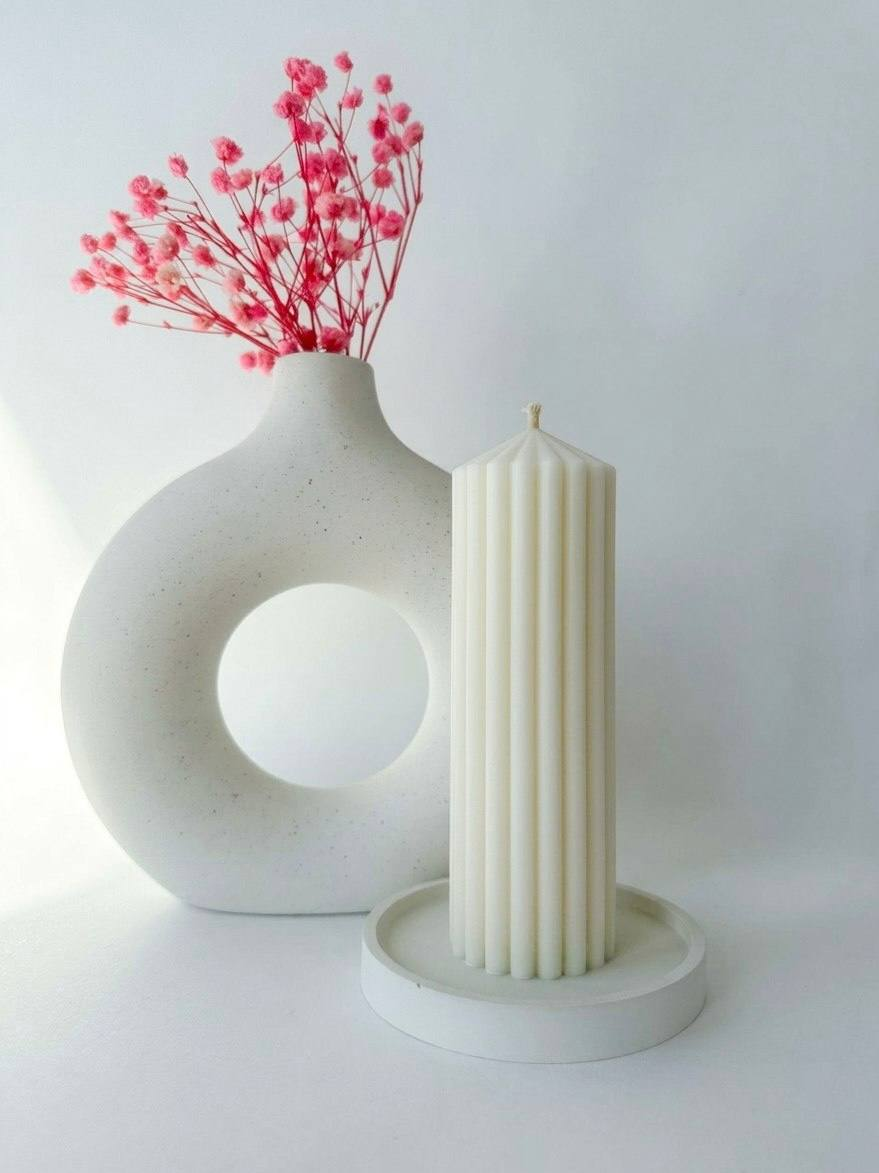
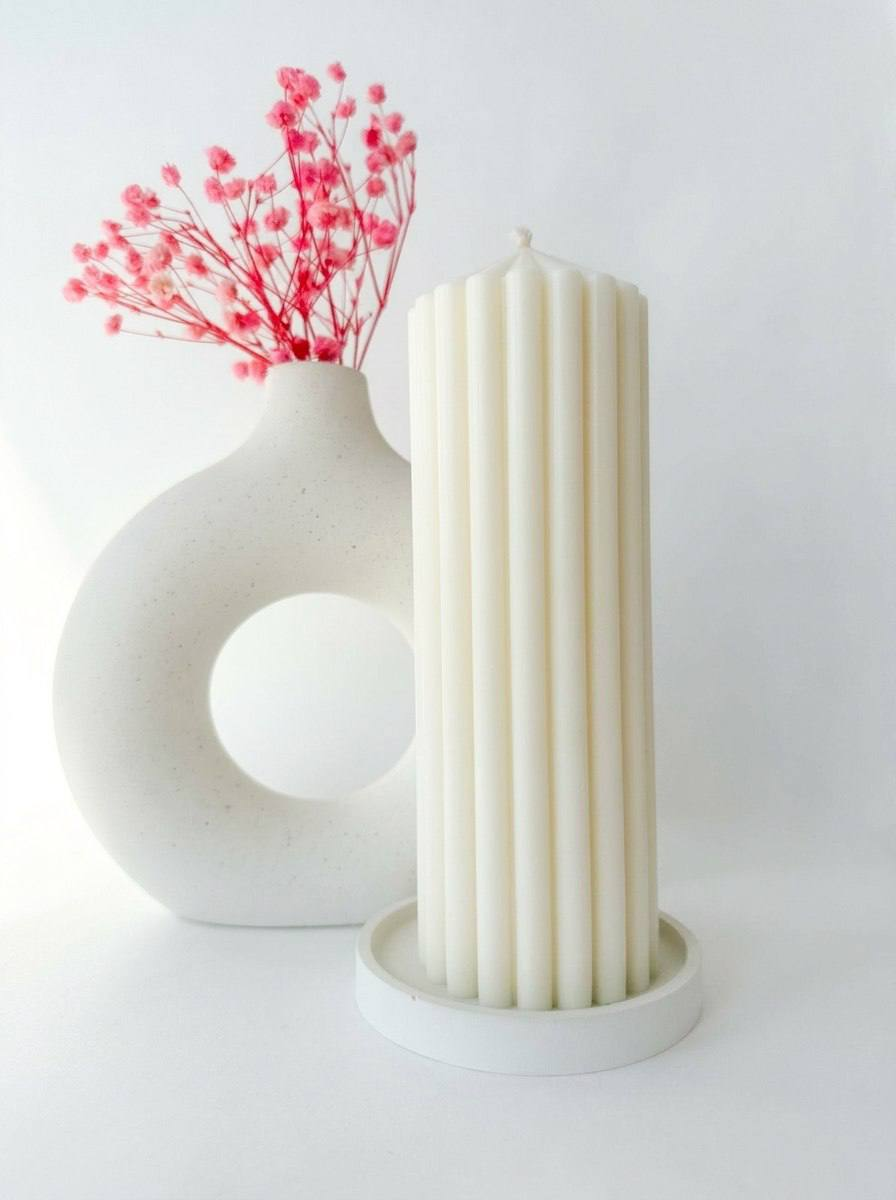
Fix static image src: grani-svecheniya-l/m/s (was pion-v-stakane.png)

diff --git a/products/grani-svecheniya-l/index.html b/products/grani-svecheniya-l/index.html
@@ -48,7 +48,7 @@
         <div class="product-media product-panel">
           <div class="product-gallery" data-product-gallery>
             <div class="product-gallery-main">
-              <img class="product-page-image" data-product-image src="../../assets/img/products/pion-v-stakane.png" alt="Свеча Пион в стакане" onerror="this.onerror=null;this.src='../../assets/img/image-placeholder.svg';">
+              <img class="product-page-image" data-product-image src="../../assets/img/products/grani-svecheniya-l.jpg" alt="Свеча Пион в стакане" onerror="this.onerror=null;this.src='../../assets/img/image-placeholder.svg';">
             </div>
             <div class="product-gallery-thumbs" data-product-gallery-thumbs hidden></div>
           </div>

diff --git a/products/grani-svecheniya-m/index.html b/products/grani-svecheniya-m/index.html
@@ -48,7 +48,7 @@
         <div class="product-media product-panel">
           <div class="product-gallery" data-product-gallery>
             <div class="product-gallery-main">
-              <img class="product-page-image" data-product-image src="../../assets/img/products/pion-v-stakane.png" alt="Свеча Пион в стакане" onerror="this.onerror=null;this.src='../../assets/img/image-placeholder.svg';">
+              <img class="product-page-image" data-product-image src="../../assets/img/products/grani-svecheniya-m.jpg" alt="Свеча Пион в стакане" onerror="this.onerror=null;this.src='../../assets/img/image-placeholder.svg';">
             </div>
             <div class="product-gallery-thumbs" data-product-gallery-thumbs hidden></div>
           </div>

diff --git a/products/grani-svecheniya-s/index.html b/products/grani-svecheniya-s/index.html
@@ -48,7 +48,7 @@
         <div class="product-media product-panel">
           <div class="product-gallery" data-product-gallery>
             <div class="product-gallery-main">
-              <img class="product-page-image" data-product-image src="../../assets/img/products/pion-v-stakane.png" alt="Свеча Пион в стакане" onerror="this.onerror=null;this.src='../../assets/img/image-placeholder.svg';">
+              <img class="product-page-image" data-product-image src="../../assets/img/products/grani-svecheniya-s.jpg" alt="Свеча Пион в стакане" onerror="this.onerror=null;this.src='../../assets/img/image-placeholder.svg';">
             </div>
             <div class="product-gallery-thumbs" data-product-gallery-thumbs hidden></div>
           </div>
